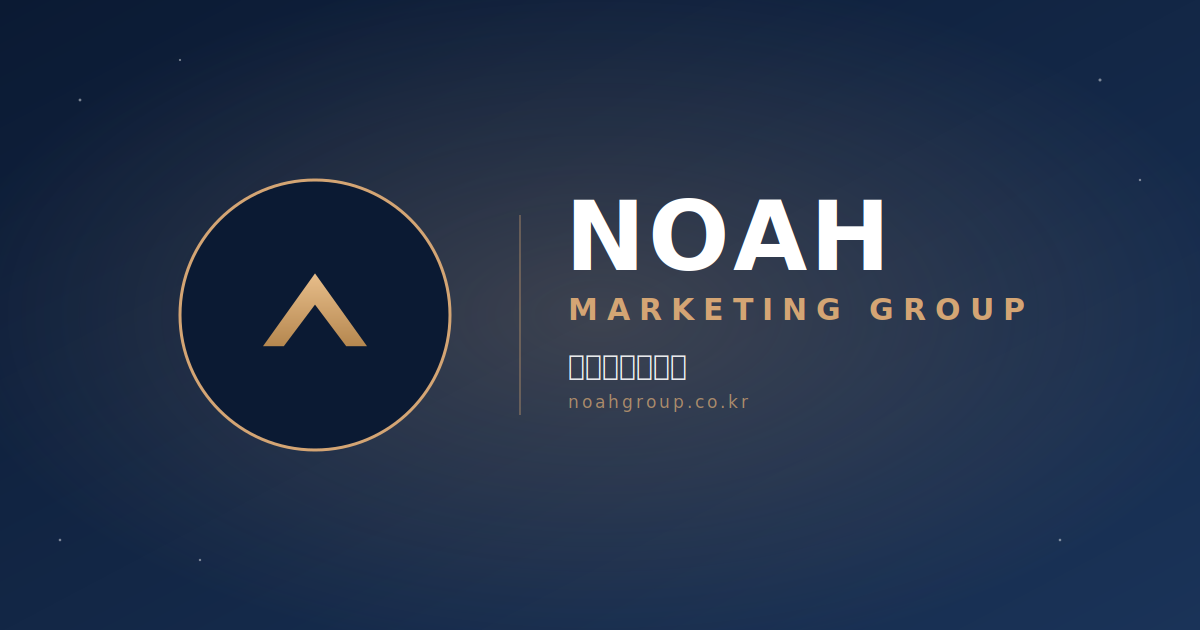
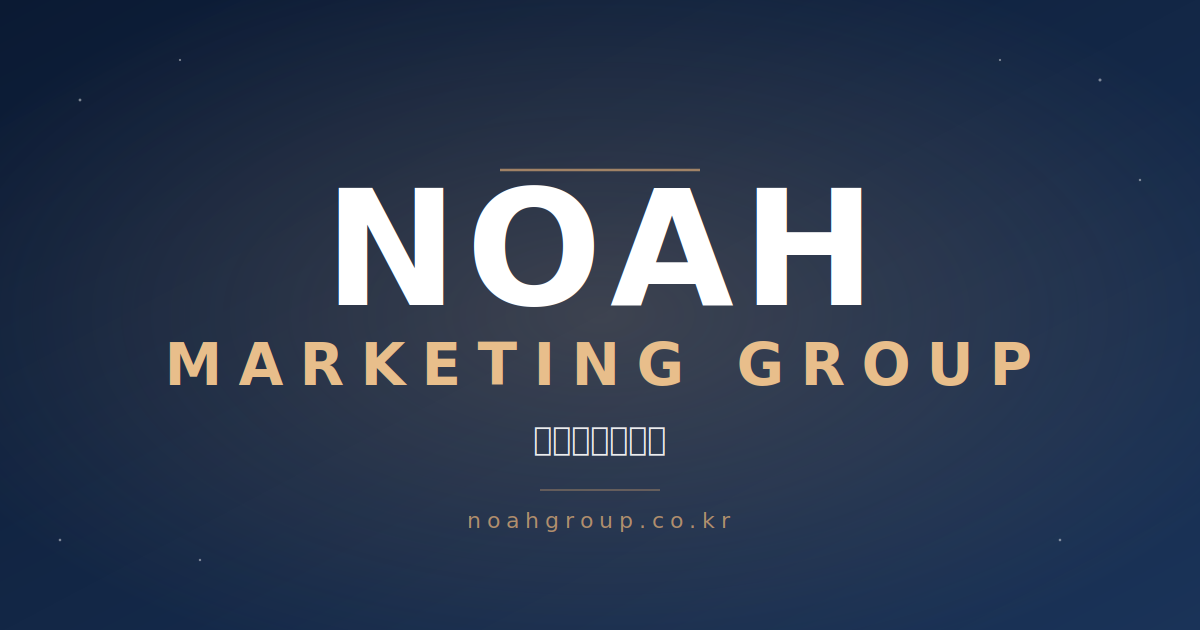
모바일 로딩 나침반 침 회전 수정 (CSS transform-origin 브라우저별 해석 차이 회피 → SVG SMIL animateTransform 으로 교체, viewBox 좌표 60,60 정확 축 회전 보장) + og 이미지 재설계 (로고 원/디바이더 제거 — 모바일 썸네일에서 빈 박스로 보이던 문제 해결, 중앙 정렬 4행 텍스트 NOAH 160px / MARKETING GROUP 58px / 노아마케팅그룹 32px / URL 22px + 골드 데코 라인)

diff --git a/index.html b/index.html
@@ -209,6 +209,7 @@
           </g>
           <text x="60" y="22" text-anchor="middle" font-family="Inter,sans-serif" font-size="8" font-weight="800" fill="#D4A574" letter-spacing="1.5">N</text>
           <g class="intro-needle">
+            <animateTransform attributeName="transform" type="rotate" values="0 60 60; 540 60 60; 720 60 60" keyTimes="0; 0.4; 1" dur="2.2s" begin="0.6s" fill="freeze" calcMode="spline" keySplines="0.4 0 0.2 1; 0.4 0 0.2 1"/>
             <path d="M60 18 L63 60 L60 63 L57 60 Z" fill="#D4A574"/>
             <path d="M60 102 L57 60 L60 57 L63 60 Z" fill="#5a3f27"/>
             <circle cx="60" cy="60" r="2.5" fill="#D4A574"/>

diff --git a/css/style.css b/css/style.css
@@ -203,8 +203,7 @@ html {
 }
 .intro-compass svg { width: 100%; height: 100%; }
 .intro-needle {
-  transform-origin: 60px 60px;
-  animation: introNeedleSpin 2.2s 0.6s cubic-bezier(.4,0,.2,1) forwards;
+  /* SVG SMIL animateTransform 으로 회전 — CSS transform-origin 의도하지 않은 브라우저 차이 회피 */
 }
 @keyframes introCompassIn {
   0% { opacity: 0; transform: scale(0.6) rotate(-20deg); }
